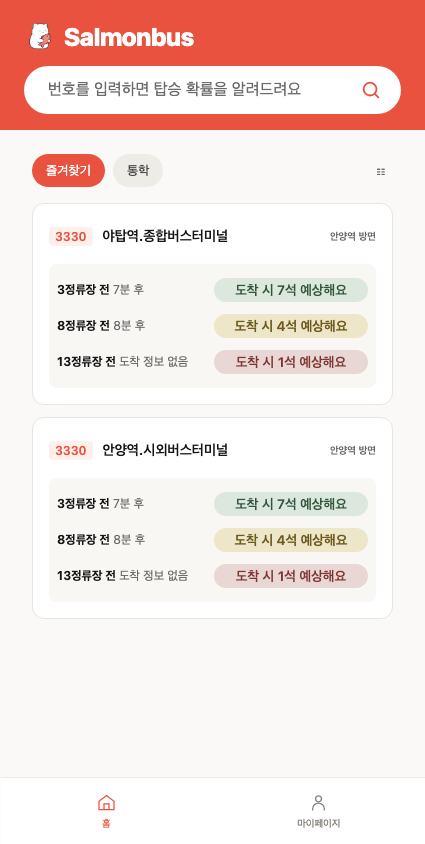
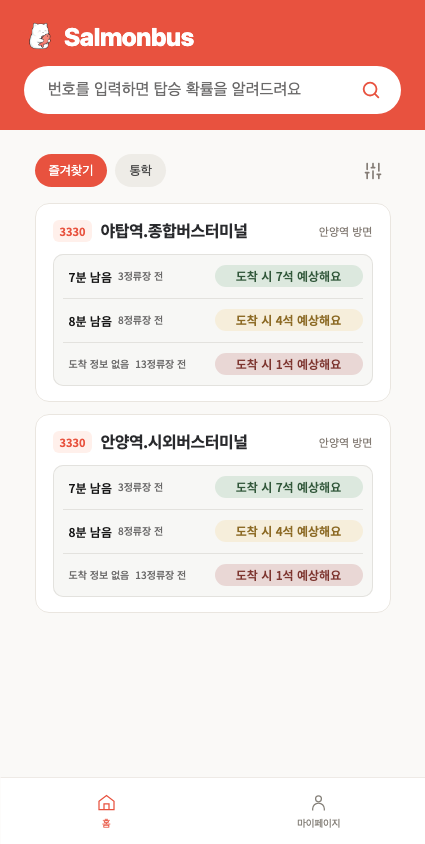
feat(SAL-249): 홈 즐겨찾기 카드 시안 반영

diff --git a/frontend/src/features/favorites/HomeFavorites.tsx b/frontend/src/features/favorites/HomeFavorites.tsx
@@ -11,6 +11,7 @@ import { OrderDialog } from "./OrderDialog";
 import { favoritePath } from "./favoritePolicy";
 import bookmarkIcon from "./bookmark.svg";
 import editIcon from "./home-edit.svg";
+import * as homeStyles from "./HomeFavorites.css";
 import * as styles from "./favorites.css";
 
 const STATUS_LABEL: Record<Exclude<FavoriteStatus, "READY">, string> = {
@@ -37,7 +38,7 @@ export function HomeFavorites() {
   }, [latest]);
   const favorites = latest?.body.groups.find((candidate) => candidate.id === group?.id)?.favorites ?? [];
   return (
-    <section className="amp-mask" aria-label="내 즐겨찾기">
+    <section className={`${homeStyles.section} amp-mask`} aria-label="내 즐겨찾기">
       <FavoritesNotice resource={resource} onRetry={reload} />
       {groups.length > 0 && (
         <div className={styles.tabs}>
@@ -127,19 +128,19 @@ function FavoriteCard({
   const direction = favorite.stop.direction ?? savedDirection;
   const terminalStopName = favorite.route.terminalStopName?.trim();
   return (
-    <li className={styles.card}>
+    <li className={homeStyles.card}>
       <Link
-        className={styles.cardLink}
+        className={homeStyles.link}
         to={
           direction
             ? favoritePath({ routeId: favorite.route.id, stopId: favorite.stop.stopId, direction })
             : boardPathFor(favorite.route.id)
         }
       >
-        <div className={styles.cardHeading}>
-          <span className={styles.route}>{favorite.route.displayName || "노선 정보 없음"}</span>
-          <span style={{ flex: 1 }}>{favorite.stop.name || "정류장 정보 없음"}</span>
-          <span className={styles.subtle} style={{ fontSize: 10, whiteSpace: "nowrap" }}>
+        <div className={homeStyles.heading}>
+          <span className={homeStyles.route}>{favorite.route.displayName || "노선 정보 없음"}</span>
+          <span className={homeStyles.stop}>{favorite.stop.name || "정류장 정보 없음"}</span>
+          <span className={homeStyles.direction}>
             {terminalStopName
               ? `${terminalStopName} 방면`
               : direction === "UP"
@@ -149,42 +150,39 @@ function FavoriteCard({
                   : "방면 정보 없음"}
           </span>
         </div>
-        {favorite.status === "READY" && favorite.approachingVehicles.length > 0 ? (
-          <ul className={styles.rows}>
-            {favorite.approachingVehicles.map((vehicle, index) => {
-              const remaining =
-                vehicle.eta.status === "AVAILABLE" ? Math.max(0, vehicle.eta.remainingSeconds - elapsed) : null;
-              const forecast = vehicle.forecast;
-              const label =
-                forecast.status !== "AVAILABLE" || forecast.expectedSeats === undefined
-                  ? "좌석 정보 없음"
-                  : forecast.expectedSeats < 1
-                    ? "도착 시 남은 좌석 없어요"
+        <div className={homeStyles.forecast}>
+          {favorite.status === "READY" && favorite.approachingVehicles.length > 0 ? (
+            <ul className={homeStyles.rows}>
+              {favorite.approachingVehicles.map((vehicle, index) => {
+                const remaining =
+                  vehicle.eta.status === "AVAILABLE" ? Math.max(0, vehicle.eta.remainingSeconds - elapsed) : null;
+                const forecast = vehicle.forecast;
+                const timingAvailable = remaining !== null && remaining > 0;
+                const tone =
+                  forecast.status === "AVAILABLE" ? toSeatLevel(forecast.seatAvailableProbability) : "unavailable";
+                const label =
+                  forecast.status !== "AVAILABLE" || forecast.expectedSeats === undefined
+                    ? "좌석 정보 없음"
                     : `도착 시 ${Math.floor(forecast.expectedSeats)}석 예상해요`;
-              return (
-                <li className={styles.arrival} key={vehicle.vehicleId ?? index}>
-                  <span>
-                    <strong>{vehicle.horizonStops}정류장 전</strong>
-                    <span className={styles.subtle}>
-                      {" "}
-                      {remaining === null || remaining <= 0 ? "도착 정보 없음" : `${Math.ceil(remaining / 60)}분 후`}
+                return (
+                  <li className={homeStyles.arrival} key={vehicle.vehicleId ?? index}>
+                    <span className={homeStyles.timing}>
+                      <span className={timingAvailable ? homeStyles.eta : homeStyles.unavailableEta}>
+                        {timingAvailable ? `${Math.ceil(remaining / 60)}분 남음` : "도착 정보 없음"}
+                      </span>
+                      <span className={homeStyles.distance}>{vehicle.horizonStops}정류장 전</span>
                     </span>
-                  </span>
-                  <SeatCountBadge
-                    tone={
-                      forecast.status === "AVAILABLE" ? toSeatLevel(forecast.seatAvailableProbability) : "unavailable"
-                    }
-                    label={label}
-                  />
-                </li>
-              );
-            })}
-          </ul>
-        ) : (
-          <p className={styles.subtle}>
-            {favorite.status === "READY" ? STATUS_LABEL.NO_VEHICLE : STATUS_LABEL[favorite.status]}
-          </p>
-        )}
+                    <SeatCountBadge tone={tone} className={homeStyles.seatBadge[tone]} label={label} />
+                  </li>
+                );
+              })}
+            </ul>
+          ) : (
+            <p className={homeStyles.notice}>
+              {favorite.status === "READY" ? STATUS_LABEL.NO_VEHICLE : STATUS_LABEL[favorite.status]}
+            </p>
+          )}
+        </div>
       </Link>
       {favorite.status === "ERROR" && (
         <button type="button" className={styles.action} onClick={onRetry}>

diff --git a/frontend/src/features/favorites/HomeFavorites.css.ts b/frontend/src/features/favorites/HomeFavorites.css.ts
@@ -1,0 +1,119 @@
+import { style, styleVariants } from "@vanilla-extract/css";
+import { vars } from "@/shared/styles/tokens.css";
+import { card as cardBase } from "./favorites.css";
+
+export const section = style({ width: "100%", maxWidth: 356, margin: "0 auto" });
+export const card = style([
+  cardBase,
+  {
+    padding: "16px 18px",
+    border: 0,
+    outline: "1px solid #EAE6E0",
+    outlineOffset: "-0.5px",
+    borderRadius: 14,
+    fontFamily: "'Noto Sans KR', sans-serif",
+  },
+]);
+export const link = style({
+  display: "flex",
+  flexDirection: "column",
+  gap: 12,
+  color: "inherit",
+  textDecoration: "none",
+});
+export const heading = style({ display: "flex", alignItems: "center", gap: 8, minWidth: 0, height: 23 });
+export const route = style({
+  flexShrink: 0,
+  padding: "3px 7px",
+  borderRadius: 6,
+  background: "#FFF0EB",
+  color: vars.color.liveBus,
+  fontSize: 11,
+  fontWeight: 700,
+  lineHeight: "16px",
+});
+export const stop = style({
+  flex: 1,
+  minWidth: 0,
+  overflow: "hidden",
+  color: "#292A2D",
+  fontSize: 16,
+  fontWeight: 700,
+  lineHeight: "23px",
+  letterSpacing: "-0.5px",
+  whiteSpace: "nowrap",
+  textOverflow: "ellipsis",
+});
+export const direction = style({
+  flexShrink: 0,
+  color: "#837B74",
+  fontSize: 11,
+  lineHeight: "16px",
+  whiteSpace: "nowrap",
+});
+export const forecast = style({
+  overflow: "hidden",
+  padding: "0 10px",
+  borderRadius: 10,
+  background: vars.color.forecastCardSurface,
+  boxShadow: `inset 0 0 0 1px ${vars.color.forecastCardBorder}`,
+});
+export const rows = style({ padding: 0, margin: 0, listStyle: "none" });
+export const arrival = style({
+  display: "flex",
+  alignItems: "center",
+  gap: 10,
+  height: 44,
+  selectors: { "&:not(:first-child)": { boxShadow: `inset 0 1px ${vars.color.forecastCardBorder}` } },
+});
+export const timing = style({
+  display: "flex",
+  flex: "1 1 0",
+  flexWrap: "wrap",
+  alignItems: "center",
+  columnGap: 6,
+  minWidth: 60,
+  paddingLeft: 6,
+});
+export const eta = style({ color: vars.color.textStrong, fontSize: 12, fontWeight: 600, lineHeight: "17px" });
+export const unavailableEta = style({
+  color: vars.color.textSubtle,
+  fontSize: 10,
+  fontWeight: 500,
+  lineHeight: "14px",
+  maxWidth: "100%",
+  wordBreak: "keep-all",
+});
+export const distance = style({
+  color: vars.color.textSubtle,
+  fontSize: 10,
+  fontWeight: 500,
+  lineHeight: "14px",
+  whiteSpace: "nowrap",
+});
+export const seatBadge = styleVariants(
+  { ...vars.color.seat, low: { ...vars.color.seat.low, surface: "#F6EEDB", text: "#8C6A25" } },
+  (tone) => ({
+    selectors: {
+      "&&": {
+        width: 148,
+        height: 22,
+        padding: "0 6px",
+        fontSize: 12,
+        lineHeight: "22px",
+        backgroundColor: tone.surface,
+        color: tone.text,
+      },
+    },
+  }),
+);
+export const notice = style({
+  display: "flex",
+  alignItems: "center",
+  justifyContent: "center",
+  minHeight: 44,
+  margin: 0,
+  color: vars.color.textSubtle,
+  fontSize: 12,
+  textAlign: "center",
+});

diff --git a/frontend/src/features/favorites/favorites.css.ts b/frontend/src/features/favorites/favorites.css.ts
@@ -28,24 +28,6 @@ export const card = style({
   color: vars.color.textStrong,
   textDecoration: "none",
 });
-export const cardLink = style({ display: "block", color: "inherit", textDecoration: "none" });
-export const cardHeading = style({
-  display: "flex",
-  alignItems: "center",
-  justifyContent: "space-between",
-  gap: 10,
-  marginBottom: 12,
-  fontSize: 14,
-  fontWeight: 600,
-});
-export const route = style({
-  flexShrink: 0,
-  borderRadius: 4,
-  padding: "2px 6px",
-  color: vars.color.brand,
-  background: "#FFF0EC",
-  fontSize: 12,
-});
 export const subtle = style({ margin: "8px 0", color: vars.color.textSubtle, fontSize: 12, lineHeight: 1.6 });
 export const error = style({ margin: "12px 0", color: "#BA3529", fontSize: 13, lineHeight: 1.6 });
 export const action = style({
@@ -88,15 +70,6 @@ export const tab = style({
   fontSize: 13,
   cursor: "pointer",
   selectors: { '&[aria-selected="true"]': { background: vars.color.brand, color: "white" } },
-});
-export const rows = style({ padding: 8, margin: 0, listStyle: "none", borderRadius: 8, background: "#F8F7F4" });
-export const arrival = style({
-  display: "flex",
-  justifyContent: "space-between",
-  alignItems: "center",
-  gap: 6,
-  padding: "6px 0",
-  fontSize: 12,
 });
 export const title = style({ display: "flex", alignItems: "center", gap: 12, margin: "0 0 28px", fontSize: 25 });
 export const back = style({

diff --git a/frontend/e2e/favorites-layout.spec.ts b/frontend/e2e/favorites-layout.spec.ts
@@ -24,10 +24,19 @@ for (const width of [320, 425]) {
     favorites.groups.push({ id: "10000000-0000-4000-8000-000000000003", name: "통학", favorites: [] });
     await page.goto("/");
     await expect(page.getByRole("tabpanel").getByRole("link")).toHaveCount(2);
+    await page.evaluate(() => document.fonts.ready);
     expect(await page.evaluate(() => document.documentElement.scrollWidth <= window.innerWidth)).toBe(true);
     await testInfo.attach("즐겨찾기 홈", { body: await page.screenshot(), contentType: "image/png" });
-    if (width === 425 && browserName === "chromium")
+    if (browserName === "chromium")
+      await page.screenshot({ path: `/private/tmp/salmonbus-sal249-qa/home-${width}.png` });
+    if (width === 425 && browserName === "chromium") {
       await page.screenshot({ path: "/private/tmp/salmonbus-sal249-qa/home.png" });
+      await page
+        .getByRole("tabpanel")
+        .locator(":scope > ul > li")
+        .first()
+        .screenshot({ path: "/private/tmp/salmonbus-sal249-qa/home-card.png" });
+    }
 
     await page.getByRole("link", { name: "마이페이지", exact: true }).click();
     await expect(page.getByRole("region", { name: "즐겨찾기 그룹 관리" }).getByRole("link")).toHaveCount(3);

diff --git a/frontend/public/index.html b/frontend/public/index.html
@@ -4,6 +4,9 @@
     <meta charset="UTF-8" />
     <meta name="viewport" content="width=device-width, initial-scale=1.0, viewport-fit=cover" />
     <link rel="icon" type="image/png" sizes="512x512" href="<%= require('./favicon-512.png') %>" />
+    <link rel="preconnect" href="https://fonts.googleapis.com" />
+    <link rel="preconnect" href="https://fonts.gstatic.com" crossorigin />
+    <link href="https://fonts.googleapis.com/css2?family=Noto+Sans+KR:wght@400..700&display=swap" rel="stylesheet" />
     <title>연어</title>
   </head>
   <body>

diff --git a/frontend/src/shared/components/SeatCountBadge.tsx b/frontend/src/shared/components/SeatCountBadge.tsx
@@ -4,8 +4,9 @@ import * as styles from "./SeatCountBadge.css";
 interface SeatCountBadgeProps {
   tone: SeatLevel | "unavailable";
   label: string;
+  className?: string;
 }
 
-export function SeatCountBadge({ tone, label }: SeatCountBadgeProps) {
-  return <span className={styles.badge[tone]}>{label}</span>;
+export function SeatCountBadge({ tone, label, className = "" }: SeatCountBadgeProps) {
+  return <span className={`${styles.badge[tone]} ${className}`}>{label}</span>;
 }
